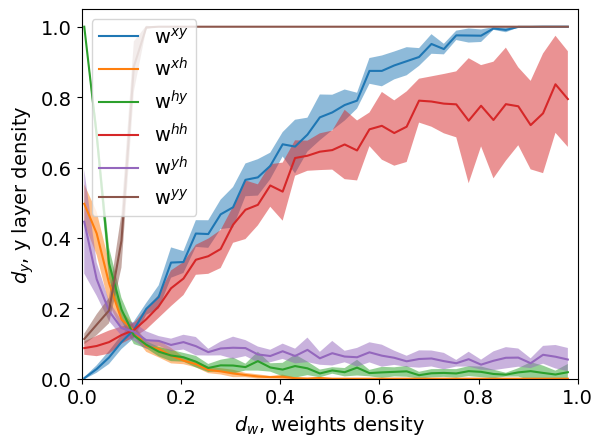
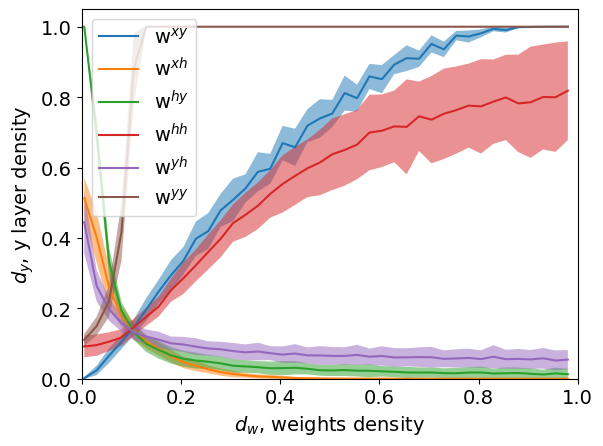
added iWTA and kWTA comparison plot

diff --git a/fig5.py b/fig5.py
@@ -46,7 +46,7 @@ a = {
 }
 
 # Increase 'iters' to make the figure smooth
-iters = 10
+iters = 200
 
 
 def plot_dependence_on_input_sparsity(N_x, N_h, N_y, colors):
@@ -59,28 +59,28 @@ def plot_dependence_on_input_sparsity(N_x, N_h, N_y, colors):
         'w_yy': generate_random_matrix(N_y, N_y, a['yy']),
     }
     a_x_range = np.arange(1, N_x, int(N_x * 0.01))
-    s_y = np.zeros((iters, a_x_range.size))
-    s_h = np.zeros((iters, a_x_range.size))
+    d_y = np.zeros((iters, a_x_range.size))
+    d_h = np.zeros((iters, a_x_range.size))
     for i in trange(iters,
-                    desc=f"Plotting dependence on s_x: N_h={N_h}, N_y={N_y}"):
+                    desc=f"Plotting dependence on d_x: N_h={N_h}, N_y={N_y}"):
         for k, ax_i in enumerate(a_x_range):
             x = generate_random_vector(N_x, ax_i)
             h, y = iWTA(x, **weights)
-            s_y[i, k] = np.mean(y)
-            s_h[i, k] = np.mean(h)
+            d_y[i, k] = np.mean(y)
+            d_h[i, k] = np.mean(h)
 
-    s_y_mean = np.mean(s_y, axis=0)
-    s_h_mean = np.mean(s_h, axis=0)
-    s_y_std = np.std(s_y, axis=0)
-    s_h_std = np.std(s_h, axis=0)
+    d_y_mean = np.mean(d_y, axis=0)
+    d_h_mean = np.mean(d_h, axis=0)
+    d_y_std = np.std(d_y, axis=0)
+    d_h_std = np.std(d_h, axis=0)
 
-    ax.plot(a_x_range / N_x, s_h_mean, label=f'$s_h, N_y=N_h={N_y}$',
+    ax.plot(a_x_range / N_x, d_h_mean, label=f'$d_h, N_y=N_h={N_y}$',
             color=colors[0])
-    ax.fill_between(a_x_range / N_x, s_h_mean + s_h_std, s_h_mean - s_h_std,
+    ax.fill_between(a_x_range / N_x, d_h_mean + d_h_std, d_h_mean - d_h_std,
                     alpha=0.2, color=colors[0])
-    ax.plot(a_x_range / N_x, s_y_mean, label=f'$s_y, N_y=N_h={N_y}$',
+    ax.plot(a_x_range / N_x, d_y_mean, label=f'$d_y, N_y=N_h={N_y}$',
             color=colors[1])
-    ax.fill_between(a_x_range / N_x, s_y_mean + s_y_std, s_y_mean - s_y_std,
+    ax.fill_between(a_x_range / N_x, d_y_mean + d_y_std, d_y_mean - d_y_std,
                     alpha=0.2, color=colors[1])
 
 
@@ -96,10 +96,11 @@ handles, labels = ax.get_legend_handles_labels()
 labels, handles = zip(*sorted(zip(labels, handles), key=lambda t: t[0]))
 ax.legend(handles, labels)
 
-ax.set_xlabel(r'$s_x$, input sparsity')
-ax.set_ylabel('encoding sparsity')
+ax.set_xlabel(r'$d_x$, input density')
+ax.set_ylabel('Encoding density')
 plt.ylim([0, 1.05])
 plt.xlim([0, 1])
-plt.title("Dependence on the input sparsity")
+plt.title("Dependence on the input density")
+plt.tight_layout()
 plt.savefig('figures/fig2c', bbox_inches='tight')
 plt.show()

diff --git a/fig6.py b/fig6.py
@@ -45,7 +45,7 @@ def generate_sample(x_c, distance):
     return result
 
 
-iters = 20
+iters = 200
 
 def plot_cosine(a, a_x=20, kwta=False, color=None):
     print('new plot...')
@@ -85,7 +85,7 @@ def plot_cosine(a, a_x=20, kwta=False, color=None):
     cos_y_mean = np.mean(cos_y, axis=1)
     cos_y_std = np.std(cos_y, axis=1)
     plt.plot(cos_x, cos_y_mean,
-             label=rf'$s_y={np.mean(sy_data):.2f}$', color=color)
+             label=rf'$d_y={np.mean(sy_data):.2f}$', color=color)
     plt.fill_between(cos_x, cos_y_mean + cos_y_std, cos_y_mean - cos_y_std,
                      alpha=0.2, color=color)
 
@@ -93,7 +93,7 @@ def plot_cosine(a, a_x=20, kwta=False, color=None):
         cos_y_mean = np.mean(cos_y_kwta, axis=1)
         cos_y_std = np.std(cos_y_kwta, axis=1)
         plt.plot(cos_x, cos_y_mean,
-                 label=rf'kWTA, $s_y={KWTA_SPARSITY}$', color='#93003a')
+                 label=rf'kWTA, $d_y={KWTA_SPARSITY}$', color='#93003a')
         plt.fill_between(cos_x, cos_y_mean + cos_y_std, cos_y_mean - cos_y_std,
                          alpha=0.2, color='#93003a')
 
@@ -127,5 +127,6 @@ plt.xlabel(r'$\cos(x_1, x_2)$')
 plt.ylabel(r'$\cos(y_1, y_2)$')
 plt.legend()
 plt.title("Similarity preservation")
+plt.tight_layout()
 plt.savefig('figures/similarity_preservation')
 plt.show()

diff --git a/fig2.py b/fig2.py
@@ -15,8 +15,8 @@ from kwta import iWTA
 
 # mpl.rcParams['figure.figsize'] = [10.0, 8.0]
 # mpl.rcParams['figure.dpi'] = 80
-mpl.rcParams['savefig.dpi'] = 800
-mpl.rcParams['savefig.format'] = 'pdf'
+# mpl.rcParams['savefig.dpi'] = 800
+mpl.rcParams['savefig.format'] = 'png'
 
 mpl.rcParams['font.size'] = 14
 mpl.rcParams['legend.fontsize'] = 14
@@ -69,7 +69,7 @@ w = {
 }
 
 # Set iters to 200 to reproduce the figure
-iters = 10
+iters = 200
 
 
 def plot_w(weight, s='y'):
@@ -123,7 +123,7 @@ ax.set_xlabel(r'$d_w$, weights density')
 ax.set_ylabel(r'$d_y$, y layer density')
 plt.ylim([0, 1.05])
 plt.xlim([0, 1])
-fig.savefig(results_dir / 'fig2a.pdf', bbox_inches='tight')
+fig.savefig(results_dir / 'fig2a', bbox_inches='tight')
 
 fig, ax = plt.subplots(1)
 plot_w('xy', 'h')
@@ -138,5 +138,5 @@ ax.set_xlabel(r'$d_w$, weights density')
 ax.set_ylabel(r'$d_h$, h layer density')
 plt.ylim([0, 1.05])
 plt.xlim([0, 1])
-fig.savefig(results_dir / 'fig2b.pdf', bbox_inches='tight')
+fig.savefig(results_dir / 'fig2b', bbox_inches='tight')
 plt.show()

diff --git a/README.md b/README.md
@@ -28,12 +28,12 @@ To reproduce the plots, run `python figX.py` in a terminal, where `figX.py` is o
 * [`fig2.py`](./fig2.py) - how the output populations sparsity depends on the weight sparsity (weights are random fand fixed);
 * [`fig3b.py`](./fig3b.py) - habituation;
 * [`fig4.py`](./fig4.py) - clustering;
-* [`fig5.py`](./fig5.py) - dependence on the input sparsity (not shown in the paper);
+* [`fig5.py`](./fig5.py) - dependence on the input density (not shown in the paper);
 * [`fig6.py`](./fig6.py) - similarity preservation (not show in the paper);
 * [`decorrelation.py`](./decorrelation.py) - decorrelation (not shown in the paper).
 
 This section compiles all figures, listed and supplementary, in one page.
-### Figure 2 (from the paper). Dependence of the sparsity of encodings on the weight sparsity
+### Figure 2 (from the paper). Dependence of the density of encodings on the weight density
 The weights are random and fixed.
 <table style="width:100%">
     <tr>
@@ -92,6 +92,12 @@ The figures from the next sections involve learning. *Learning* the weights mean
 
 ### Clustering
 
+Comparison of iWTA (with *permanence-varying* learning) and kWTA on a clustering task. Run the [fig4.py](./fig4.py) script to generate this plot.
+
+<img src="figures/clustering/comparison.png" height="500"/>
+
+Complete run of each learning method:
+
 <table style="width:100%">
     <tr>
         <td>
@@ -113,15 +119,15 @@ The figures from the next sections involve learning. *Learning* the weights mean
 </table>
 
 
-### Figure 5. Dependence on the input sparsity
+### Figure 5. Dependence on the input density
 
 <img src="figures/fig2c.png" alt="figures/fig2c.png" width="400"/>
-Dependence of the sparsity of encodings on the input sparsity.
+
+Dependence of the density of encodings on the input density.
 The main feature is that the dependence is nonlinear and the same for different layer sizes.
 
 ### Figure 6. Similarity preservation
 
 <img src="figures/similarity_preservation.png" alt="figures/similarity_preservation.png" width="400"/>
-The figure shows how the cosine similarity between two input vectors changes in the encoding space. The sparsity of encodings influences the dependence. Results for iWTA are comparable to kWTA. Similar inputs are encoded in similar output populations. The higher the encoding sparsity the better preservation.
 
-
+The figure shows how the cosine similarity between two input vectors changes in the encoding space. The sparsity of encodings influences the dependence. Results for iWTA are comparable to kWTA. Similar inputs are encoded in similar output populations. The higher the encoding density (lower sparsity) the better preservation.
